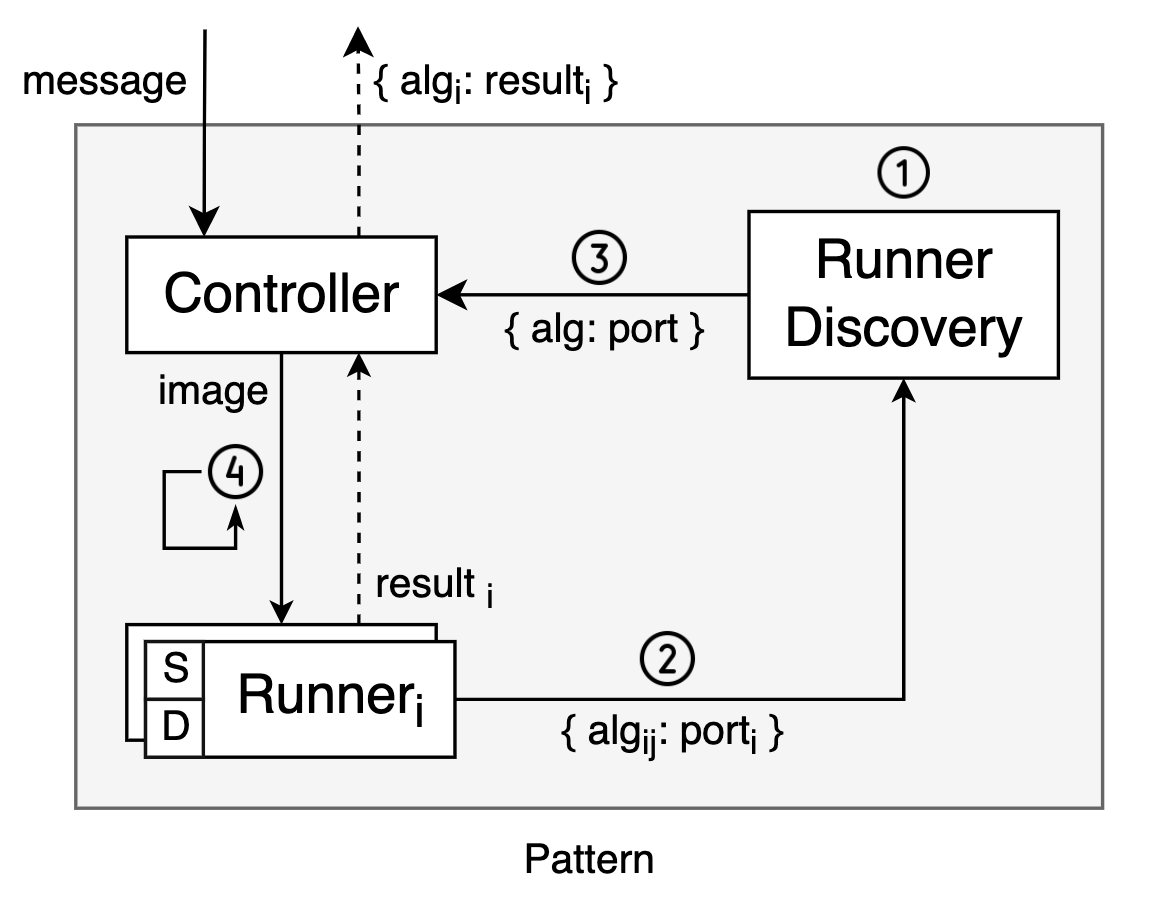
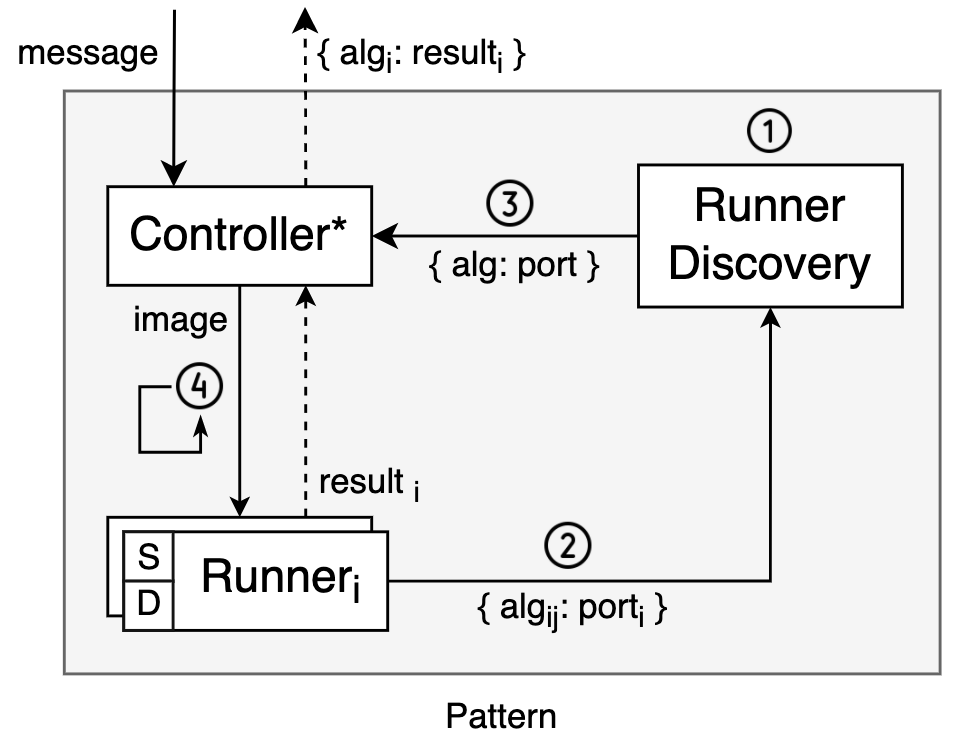
Typos fix, image update

Changed region(s): [[0.0, 0.0, 0.9856, 0.9151], [0.462, 0.9151, 0.5852, 0.9761]]

diff --git a/_site/2021/12/04/ml-ops-fict-1.html b/_site/2021/12/04/ml-ops-fict-1.html
@@ -17,7 +17,7 @@
 <meta name="twitter:card" content="summary" />
 <meta property="twitter:title" content="ML Ops: A Fictional Case Study" />
 <script type="application/ld+json">
-{"datePublished":"2021-12-04T12:14:00-03:00","mainEntityOfPage":{"@type":"WebPage","@id":"/2021/12/04/ml-ops-fict-1.html"},"url":"/2021/12/04/ml-ops-fict-1.html","description":"In this article, I’d like to walk you through how the incorporation of ML Ops practices might be of great assistance to an engineering team looking to apply ML to solve a problem.","headline":"ML Ops: A Fictional Case Study","dateModified":"2021-12-04T12:14:00-03:00","@type":"BlogPosting","@context":"https://schema.org"}</script>
+{"dateModified":"2021-12-04T12:14:00-03:00","datePublished":"2021-12-04T12:14:00-03:00","mainEntityOfPage":{"@type":"WebPage","@id":"/2021/12/04/ml-ops-fict-1.html"},"url":"/2021/12/04/ml-ops-fict-1.html","description":"In this article, I’d like to walk you through how the incorporation of ML Ops practices might be of great assistance to an engineering team looking to apply ML to solve a problem.","headline":"ML Ops: A Fictional Case Study","@type":"BlogPosting","@context":"https://schema.org"}</script>
 <!-- End Jekyll SEO tag -->
 <link rel="stylesheet" href="/assets/main.css"><link type="application/atom+xml" rel="alternate" href="/feed.xml" title="Blog" /></head>
 <body><header class="site-header" role="banner">

diff --git a/_posts/2022-02-15-plug-play-worker-pattern-1.md b/_posts/2022-02-15-plug-play-worker-pattern-1.md
@@ -95,7 +95,7 @@ This is how applying these ideas to our setup would look like:
 
 <img src="/assets/plug-play-worker-pattern-part-1/Untitled%202.png" style="display: block; margin-left: auto; margin-right: auto; width: 120%;"/>
 
-Note too that this pattern constrains the initialization order of components. Runner Discovery has to start first so that the runners can then register with it. In turn, the controller can only start ones all runners are done registering. In summary:
+Note too that this pattern constrains the initialization order of components. Runner Discovery has to start first so that the runners can then register with it. In turn, the controller can only start once all runners are done registering. In summary:
 
 1. Runner Discovery initializes.
 2. Runners initialize, POST list of supported algorithms and port to Runner Discovery.
@@ -106,7 +106,7 @@ For reference, this what the general case might look like:
 
 <img src="/assets/plug-play-worker-pattern-part-1/Untitled%203.png" style="display: block; margin-left: auto; margin-right: auto; width: 50%;"/>
 
-So, herein lies the catch: we add a discovery component to our setup and a bit of code to the controller and runners to interact with the new discovery component. The modified controller is represented as *Controller** in the diagram, and the "D” in the runners denotes the new discovery-related code. This is to represent the fact that we'd want to single-source that functionality and package it in each runner build, much the same way we'd do with the auxiliary server code.
+So, herein lies the catch: we add a discovery component to our setup and a bit of code to the controller and runners to interact with the new discovery component. The modified controller is represented as "Controller*" in the diagram, and the "D” in the runners denotes the new discovery-related code. This is to represent the fact that we'd want to single-source that functionality and package it in each runner build, much the same way we'd do with the auxiliary server code.
 
 I submit, however, that this is a small price to pay, and it's the offloading of mapping responsibility to this new component that gives us the discussed benefits of dynamic algorithm mapping. It's true that those bits of added code need to be implemented and maintained, but they're simple to implement and can be simple enough to maintain as well. First and foremost, they remain constant as a function of algorithm addition or removal, as they must be algorithm-agnostic by their very nature of providing dynamic mapping of algorithms. Furthermore, the controller's bit which queries Runner Discovery can be added to and versioned with the very same controller code (thereby yielding *Controller**), which means it lives in and affects that single source project alone.
 
